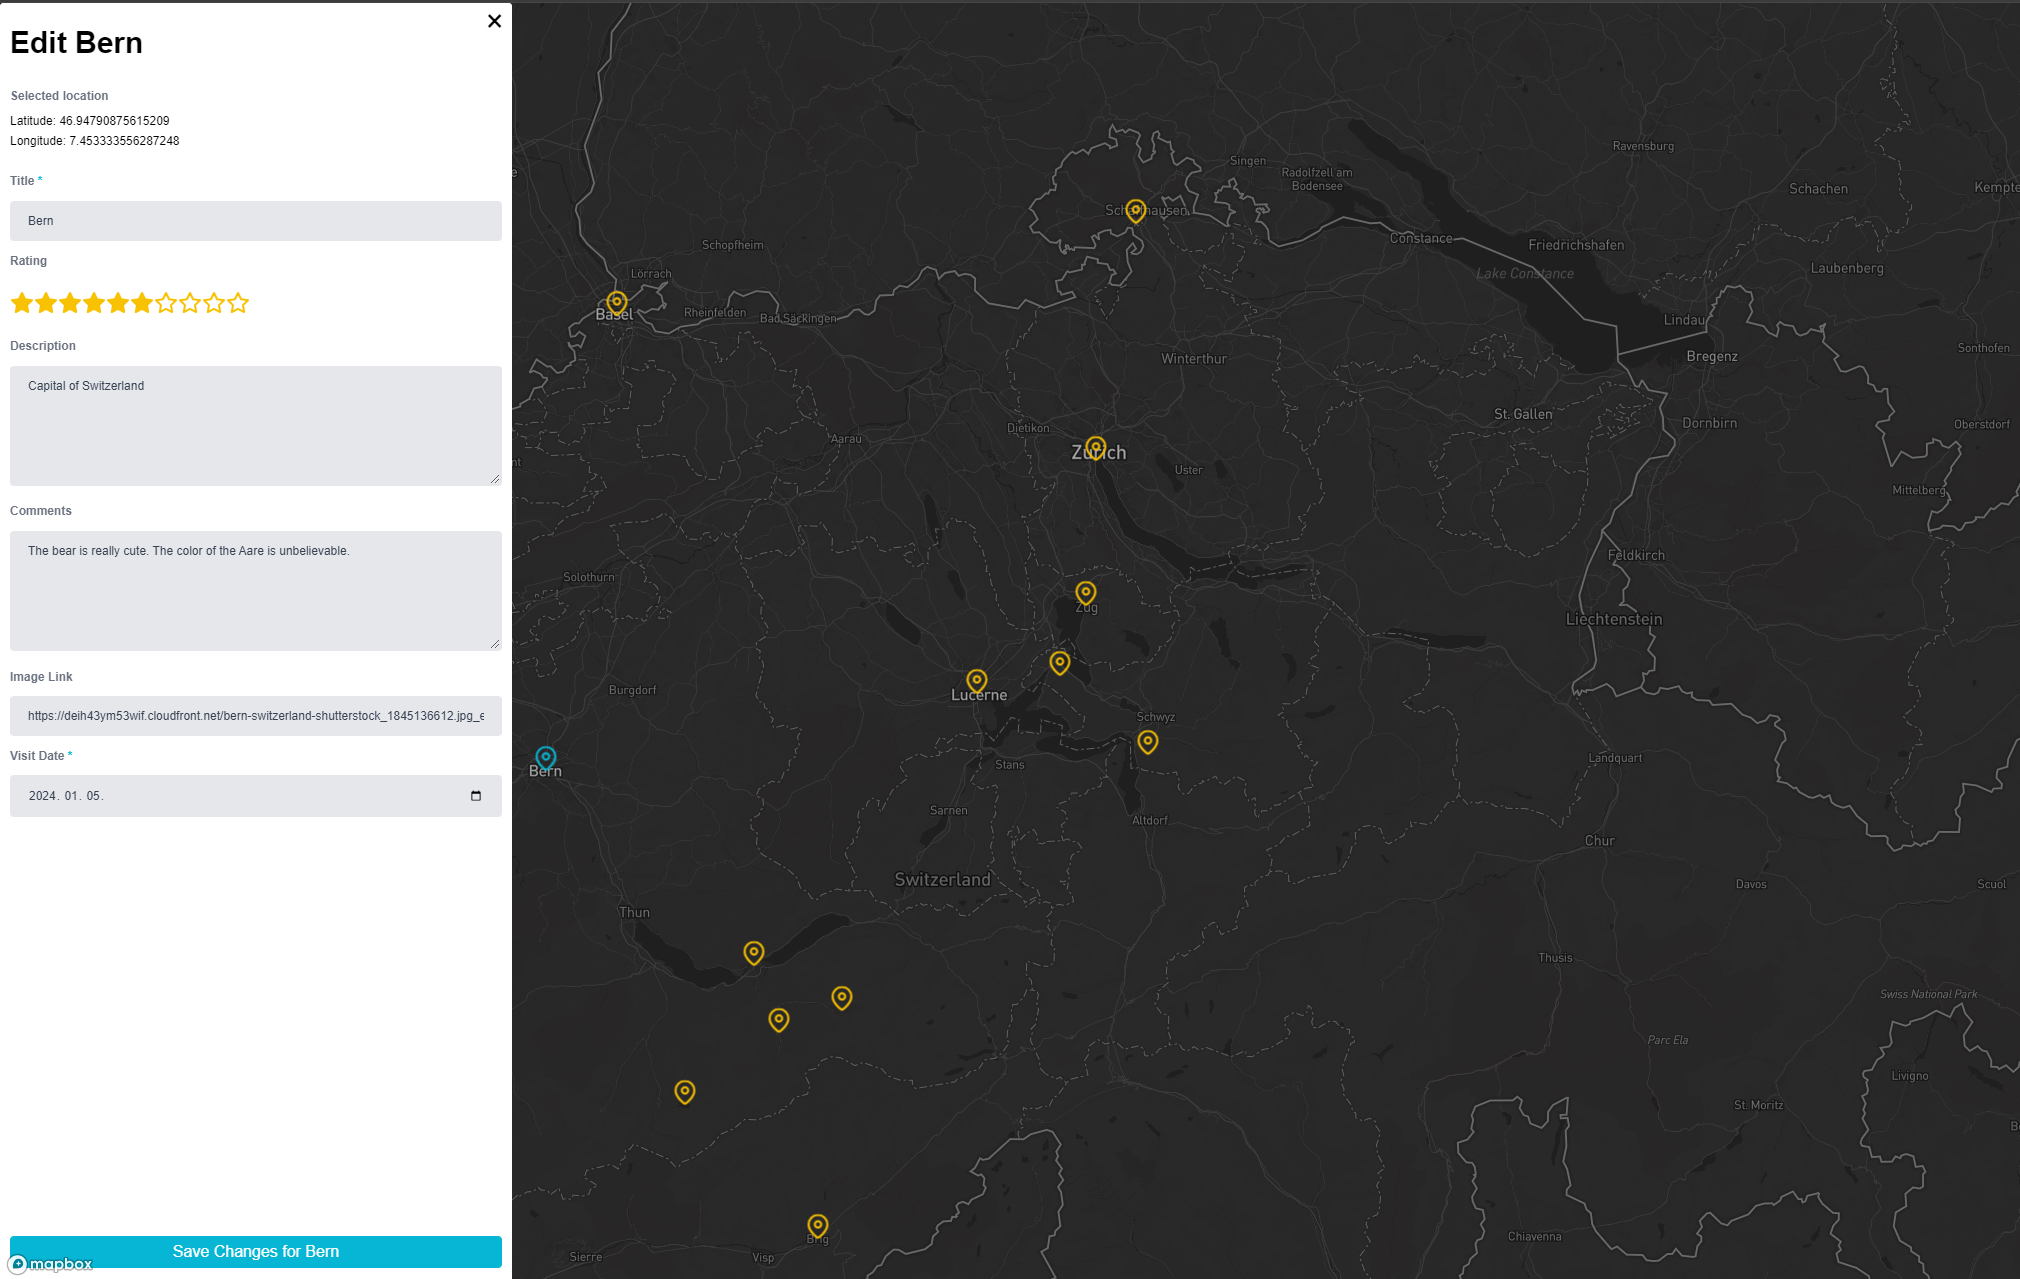
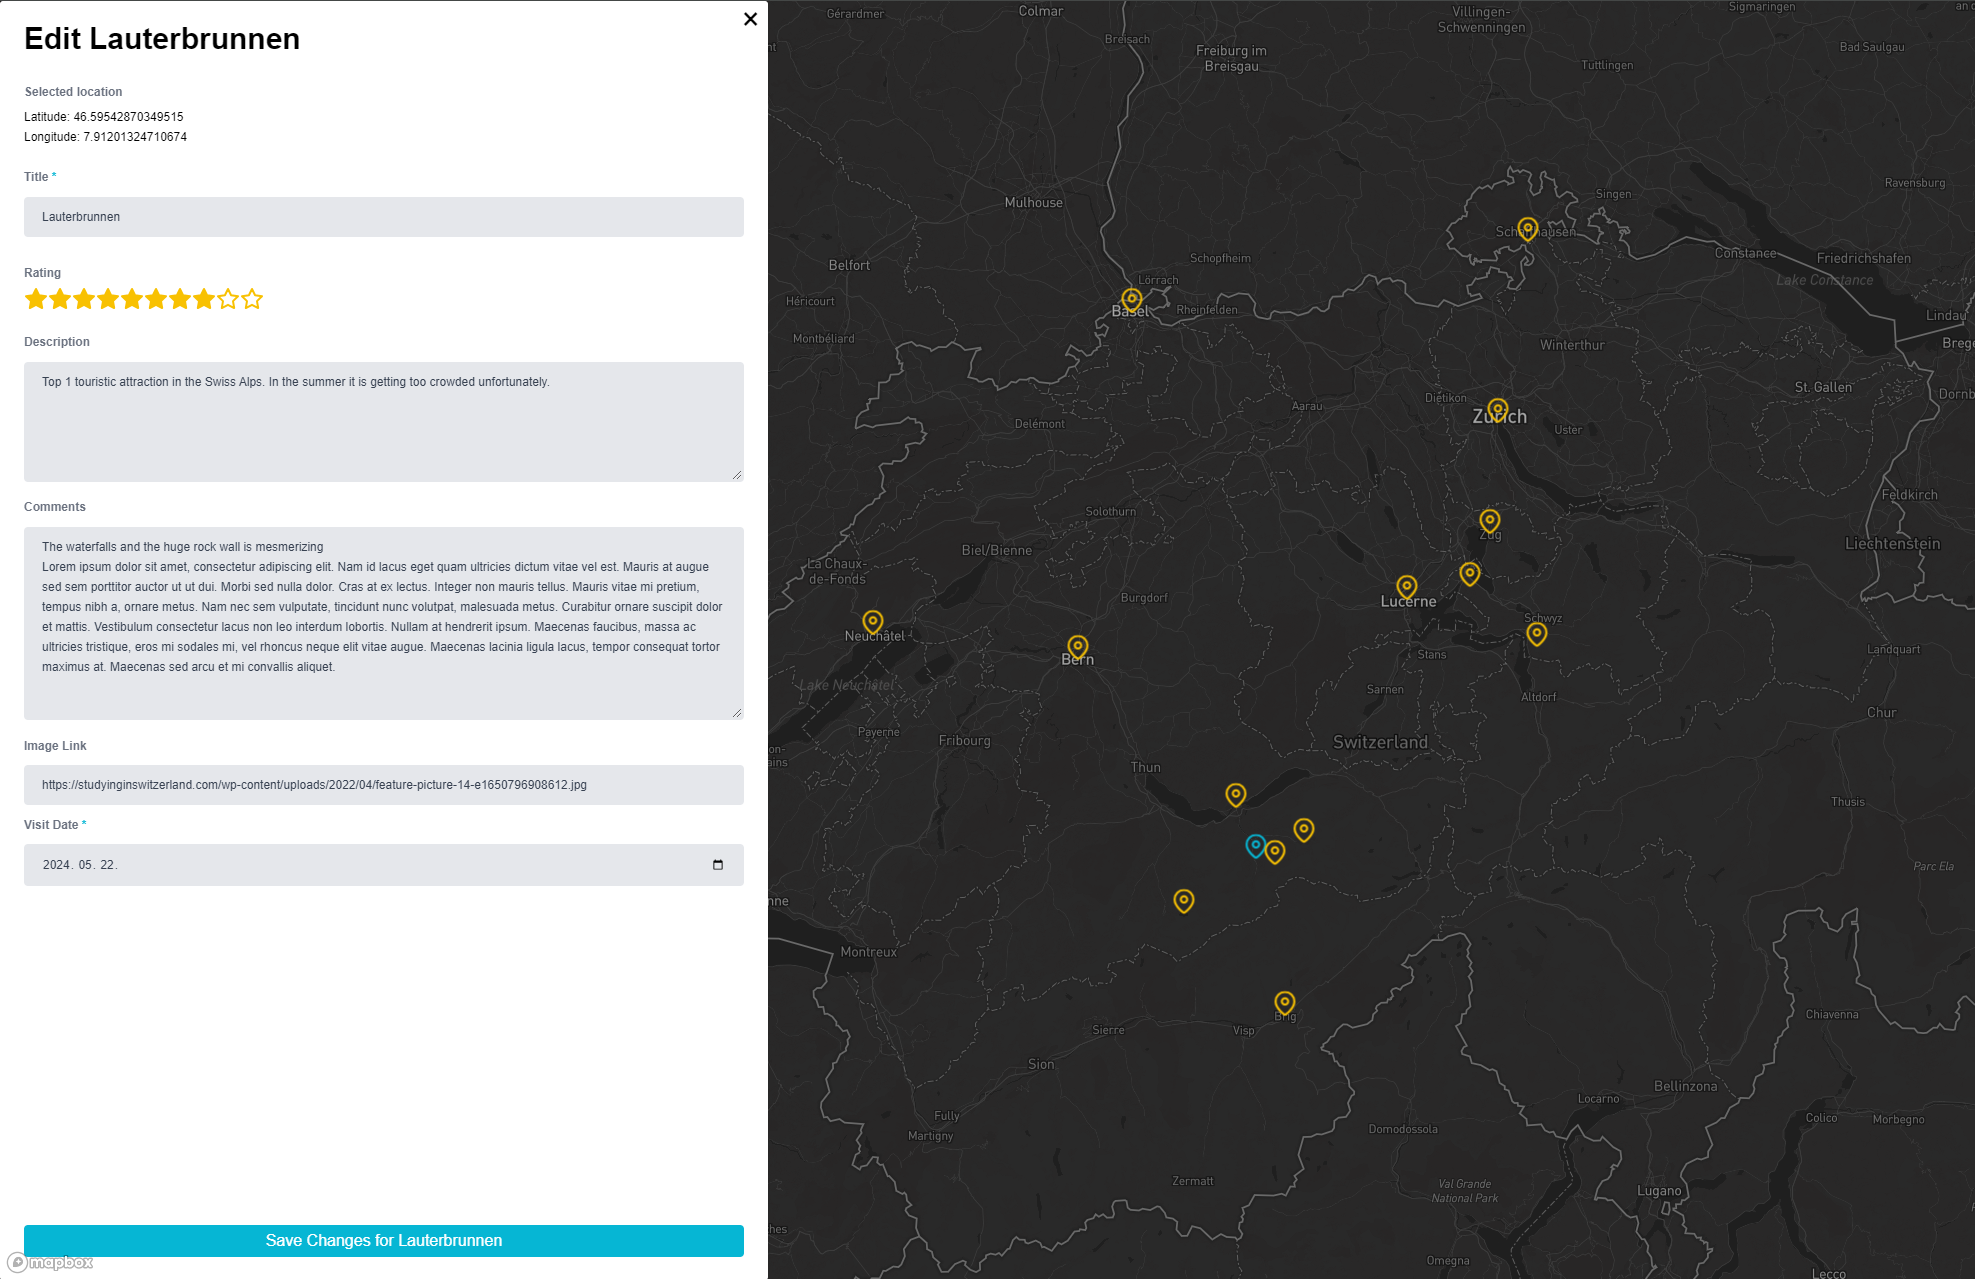
Improve styling and responsiveness of the popup and its content

diff --git a/client/src/Components/DetailsPopup/DetailsPopup.tsx b/client/src/Components/DetailsPopup/DetailsPopup.tsx
@@ -1,6 +1,7 @@
 import {  Popup } from 'react-map-gl';
 import { LogEntryForm, Rating } from '..';
 import { useState } from 'react';
+import "./DetailsPopup.scss";
 
 interface DetailsPopupProps {
     entry: LogEntry;
@@ -29,38 +30,50 @@ export const DetailsPopup: React.FC<DetailsPopupProps> = ({ entry, showPopup, se
 
             {
                 editMode ? 
-                <>
-                <h1 className="text-3xl font-bold mt-3 mb-5">Edit {entry.title}</h1>
-                <LogEntryForm   location={{latitude: entry.latitude, longitude: entry.longitude}} 
-                                entry={entry}
-                                onClose={() => {
-                                    setShowPopup({
-                                        ...showPopup,
-                                        [entry._id]: false
-                                    })
-                                    setEditMode(false)
-                                }}
-                                updateEntry={updateEntry}/>
-                </>
+                <div className='details-popup flex flex-col'>
+                    <div className='popup-body'>
+                        <h1 className="text-3xl font-bold my-5">Edit {entry.title}</h1>
+                        <LogEntryForm   location={{latitude: entry.latitude, longitude: entry.longitude}} 
+                                        entry={entry}
+                                        onClose={() => {
+                                            setShowPopup({
+                                                ...showPopup,
+                                                [entry._id]: false
+                                            })
+                                            setEditMode(false)
+                                        }}
+                                        updateEntry={updateEntry}/>
+                    </div>
+                </div>
                 :
                 <div className='details-popup flex flex-col'>
                     {entry.image &&
                         <div className='image-container'>
                             <img src={entry.image} alt={entry.title} />
                         </div>}
-                    <h1 className="text-3xl font-bold mt-3 mb-5">{entry.title}</h1>
-                    <p>Visited on: {new Date(entry.visitDate).toLocaleDateString()}</p>
-
-                    <Rating rating={entry.rating ?? 0} />
-
-                    <h2 className="text-xl font-bold mt-4">Description</h2>
-                    <p>{entry.description ? entry.description : "-"}</p>
-                    <h2 className="text-xl font-bold my-2">Comments</h2>
-                    <p>{entry.comments ? entry.comments : "-"}</p>
-                    <button className="action-button text-base p-1 bg-cyan-500 hover:bg-cyan-600 rounded"  
-                            onClick={() => { setEditMode(true) }}>
-                        Edit
-                    </button>
+                    <section className='popup-header'>
+                        <h1 className="text-3xl font-bold my-5">{entry.title}</h1>
+                        <section className='flex flex-row justify-between'>
+                            <div className='mb-2'>
+                                <Rating rating={entry.rating ?? 0} />
+                            </div>
+                            <p className='my-auto'>Visited: {new Date(entry.visitDate).toLocaleDateString()}</p>
+                        </section>
+                    </section>
+                    <section className='popup-body flex flex-col' >
+                        <h2 className="text-xl font-bold mt-4">Description</h2>
+                        <section className='min-h-12 overflow-y-auto mb-4'>
+                            <p>{entry.description ? entry.description : "-"}</p>
+                        </section>
+                        <h2 className="text-xl font-bold my-2">Comments</h2>
+                        <section className='min-h-12 overflow-y-auto mb-4'>
+                            <p>{entry.comments ? entry.comments : "-"}</p>
+                        </section>
+                        <button className="action-button text-base p-1 bg-cyan-500 hover:bg-cyan-600 rounded"  
+                                onClick={() => { setEditMode(true) }}>
+                            Edit
+                        </button>
+                    </section>
                 </div>
             }
         </Popup>

diff --git a/client/src/index.scss b/client/src/index.scss
@@ -7,6 +7,24 @@ body {
   font-family: -apple-system, BlinkMacSystemFont, 'Segoe UI', 'Roboto', 'Oxygen',
     'Ubuntu', 'Cantarell', 'Fira Sans', 'Droid Sans', 'Helvetica Neue',
     sans-serif;
+
+    ::-webkit-scrollbar {
+      width: 0.5rem;
+    }
+    
+    ::-webkit-scrollbar-track {
+      border:  1px rgb(241, 241, 241) solid; 
+      border-radius: 0.25rem;
+    }
+     
+    ::-webkit-scrollbar-thumb {
+      background: rgb(201, 201, 201); 
+      border-radius: 0.25rem;
+    }
+    
+    ::-webkit-scrollbar-thumb:hover {
+      background: #838383; 
+    }
 }
 
 .marker{
@@ -39,36 +57,19 @@ body {
   left: 0;
   top: 0;
   height: 100vh !important;
-  width: 20vw !important;
-  max-width: 20vw !important;
+  width: 90vw !important;
+  max-width: 90vw !important;
 
   & .mapboxgl-popup-content,
-  & .mapboxgl-popup-content div {
+  & .mapboxgl-popup-content > div {
     height: 100%;
+    padding: 0;
   }
 }
 
 
 .mapboxgl-popup-tip {
   display: none !important;
-}
-
-.details-popup {
-  height: 100%;
-  padding: 1rem;
-
-  & .image-container {
-    margin-top: 1.5rem;
-    width: 100%;
-    max-height: 300px;
-    overflow: hidden;
-  }
-  
-  & img {
-    max-width: 100%;
-    
-    display: block;
-  }
 }
 
 .action-button {
@@ -83,5 +84,27 @@ body {
 
 .new-entry-popup {
   max-width: 40vw;
-  padding: 1rem;
+  padding: 1.5rem;
+  height: 100%;
+}
+
+@media (screen(md)) {
+  .mapboxgl-popup {
+    width: 70vw !important;
+    max-width: 70vw !important;
+  }
+}
+
+@media (screen(lg)) {
+  .mapboxgl-popup {
+    width: 40vw !important;
+    max-width: 40vw !important;
+  }
+}
+
+@media (screen(2xl)) {
+  .mapboxgl-popup {
+    width: 30vw !important;
+    max-width: 30vw !important;
+  }
 }

diff --git a/client/src/Components/LogEntryForm/LogEntryForm.tsx b/client/src/Components/LogEntryForm/LogEntryForm.tsx
@@ -64,7 +64,7 @@ export const LogEntryForm: React.FC<LogEntryFormProps> = ({ location, onClose, e
     }
 
     return (
-        <form className="entry-form w-full flex flex-col h-[calc(100%-1.875rem-2rem)]" onSubmit={handleSubmit(onSubmit, onFormSubmitError)}>
+        <form className="entry-form w-full flex flex-col h-[calc(100%-1.875rem-2.5rem)]" onSubmit={handleSubmit(onSubmit, onFormSubmitError)}>
             { error &&  <h3 className='error'>{error}</h3> }
             <section>
                 <label className="block text-gray-500 font-bold">Selected location</label>
@@ -78,12 +78,15 @@ export const LogEntryForm: React.FC<LogEntryFormProps> = ({ location, onClose, e
                             value={entry && entry?.title}
                             setValue={setValue} />
 
-                <Rating rating={entry?.rating ?? 0}
-                        formRatingProps={{
-                            "register": register,
-                            "setValue": setValue,
-                            "inputKey": "rating",
-                            "label": "Rating"  }}  />
+                <section className='my-4'>
+                    <Rating rating={entry?.rating ?? 0}
+                            formRatingProps={{
+                                "register": register,
+                                "setValue": setValue,
+                                "inputKey": "rating",
+                                "label": "Rating"  }}  />
+                </section>
+
 
                 <FormTextArea   register={register} 
                                 inputKey="description"

diff --git a/client/src/Components/DetailsPopup/DetailsPopup.scss b/client/src/Components/DetailsPopup/DetailsPopup.scss
@@ -1,0 +1,30 @@
+$side-padding: 1.5rem;
+
+.details-popup {
+    height: 100%;
+    padding: 0;
+    overflow-y: auto;
+
+    & .popup-header{ 
+        padding: 0 $side-padding;
+    }
+
+    & .popup-body { 
+        height: 100%;
+        padding: 0 $side-padding $side-padding $side-padding;
+    }
+  
+    & .image-container {
+      width: 100%;
+      min-height: 20vh;
+      height: max-content;
+      max-height: 30vh;
+      overflow: hidden;
+      
+    }
+    
+    & img {
+      width: 100%;
+      display: block;
+    }
+}

diff --git a/client/src/Components/Rating/Rating.tsx b/client/src/Components/Rating/Rating.tsx
@@ -23,7 +23,7 @@ export const Rating: React.FC<RatingProps> = ({ rating, formRatingProps }) => {
   return (
     <>
       <label  className={"block text-gray-500 font-bold " + (formRatingProps?.required ? "required" : "")}  htmlFor={formRatingProps?.inputKey}>{formRatingProps?.label}</label>
-      <section className="flex flex-row my-4">
+      <section className="flex flex-row">
         {[...Array(10)].map((_, index) => (
           <div 
             key={`rating_container_${index}`}

diff --git a/client/src/App.tsx b/client/src/App.tsx
@@ -2,7 +2,7 @@ import React, {useState, useEffect, Fragment }  from 'react';
 import Map, {Marker, Popup} from 'react-map-gl';
 import { listLogEntries } from './API';
 import "mapbox-gl/dist/mapbox-gl.css";
-import { DetailsPopup, LogEntryForm, Rating } from './Components';
+import { DetailsPopup, LogEntryForm } from './Components';
 
 function App() {
   const [logEntries, setLogEntries] = useState<LogEntry[]>([]);

diff --git a/README.md b/README.md
@@ -16,6 +16,7 @@ Double clicking on the map will open the "Add your new log entry" drawer.
 
 ### Show details of log entry by clicking on the marker
 Clicking an existin marker will open the details drawer, the user can see all the data related to the current travel log entry. 
+
 ![Show log entry details example](/client/public/img/show_entry.PNG)
 
 ### Edit log entry
